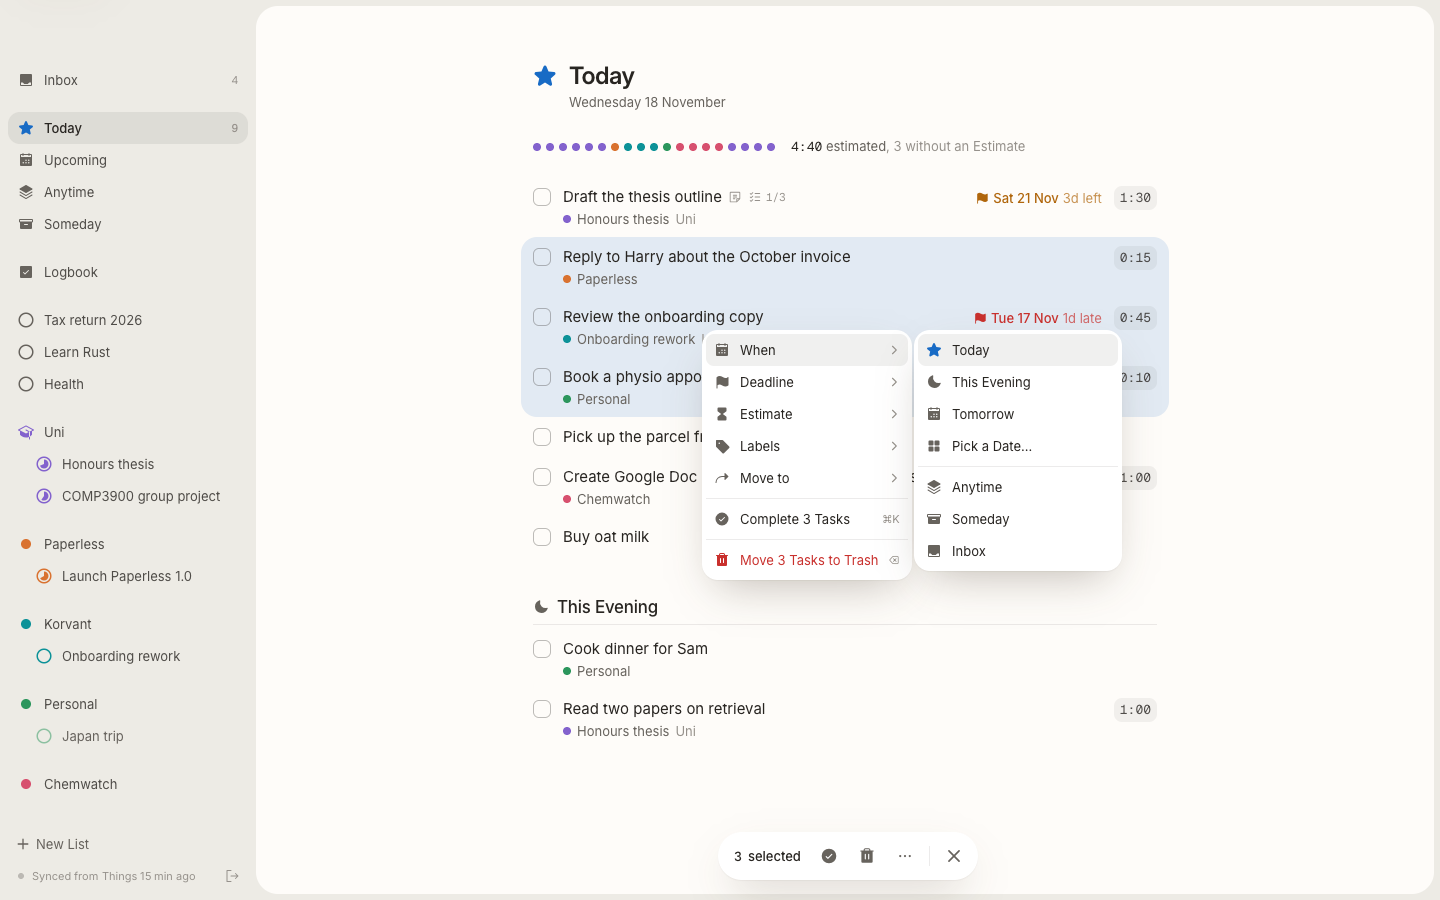
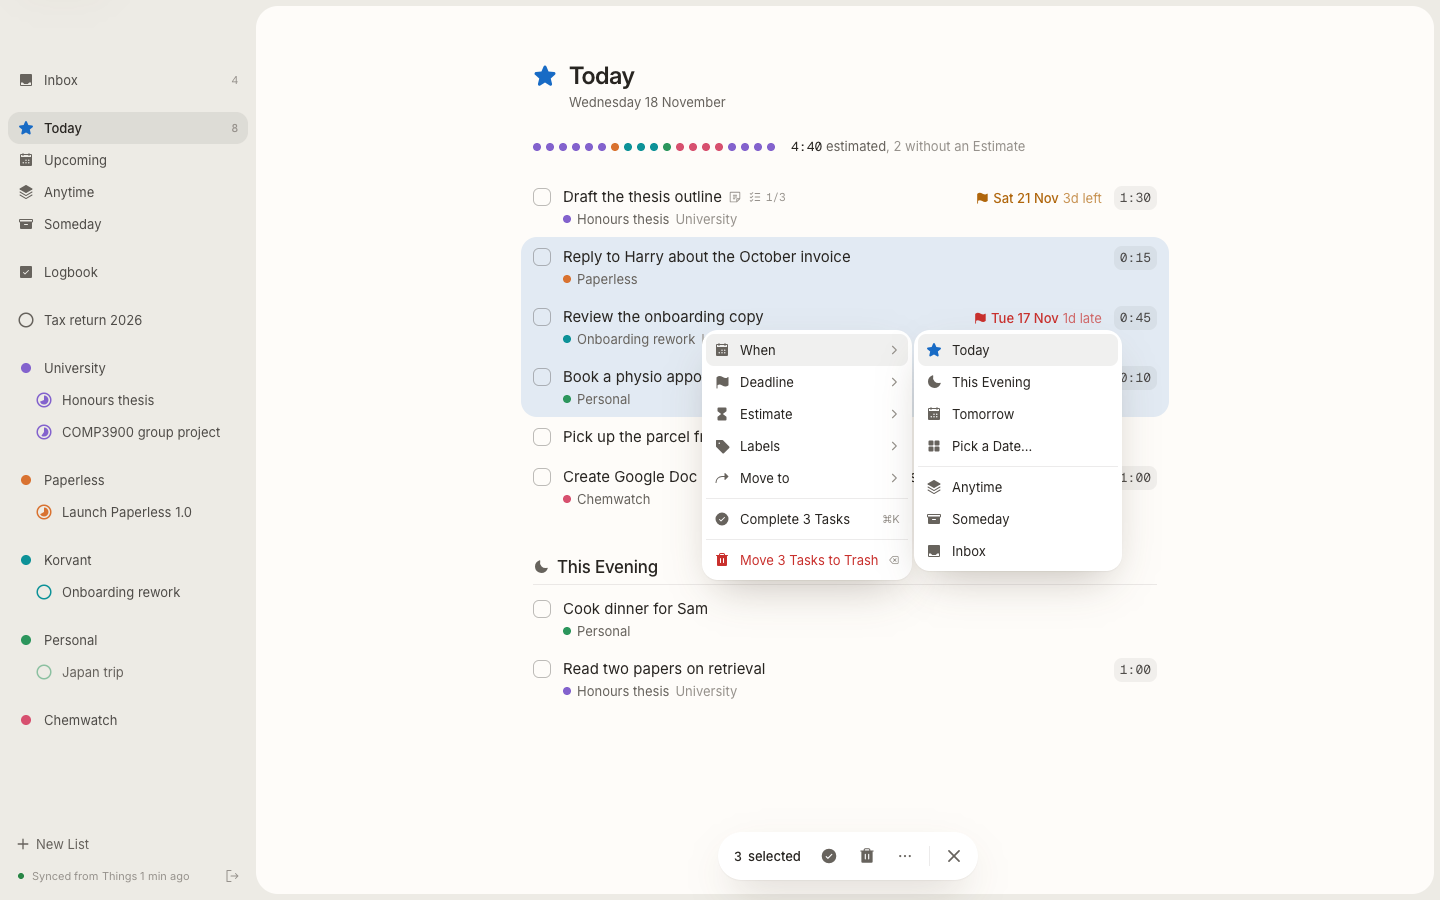
Retake the context menu hero on clean seed data and type the selection test (#31, #32)

Changed region(s): [[0.0, 0.3733, 0.1562, 0.7467], [0.375, 0.5911, 0.5312, 0.84], [0.0, 0.7778, 0.0938, 0.84]]

diff --git a/packages/backend/convex/planner/selection.test.ts b/packages/backend/convex/planner/selection.test.ts
@@ -5,7 +5,7 @@ import { newBackend, unwrap } from "../backend.test-utils";
 
 const setup = async () => {
   const t = await newBackend();
-  const taskIds = [];
+  const taskIds: Id<"tasks">[] = [];
   for (const title of ["Draft intro", "Email supervisor", "Book the dentist"])
     taskIds.push(unwrap(await t.mutation(api.planner.tasks.create, { title })).taskId);
   const cards = async () => Promise.all(taskIds.map(async (taskId) => (await t.query(api.planner.tasks.card, { taskId }))!));
